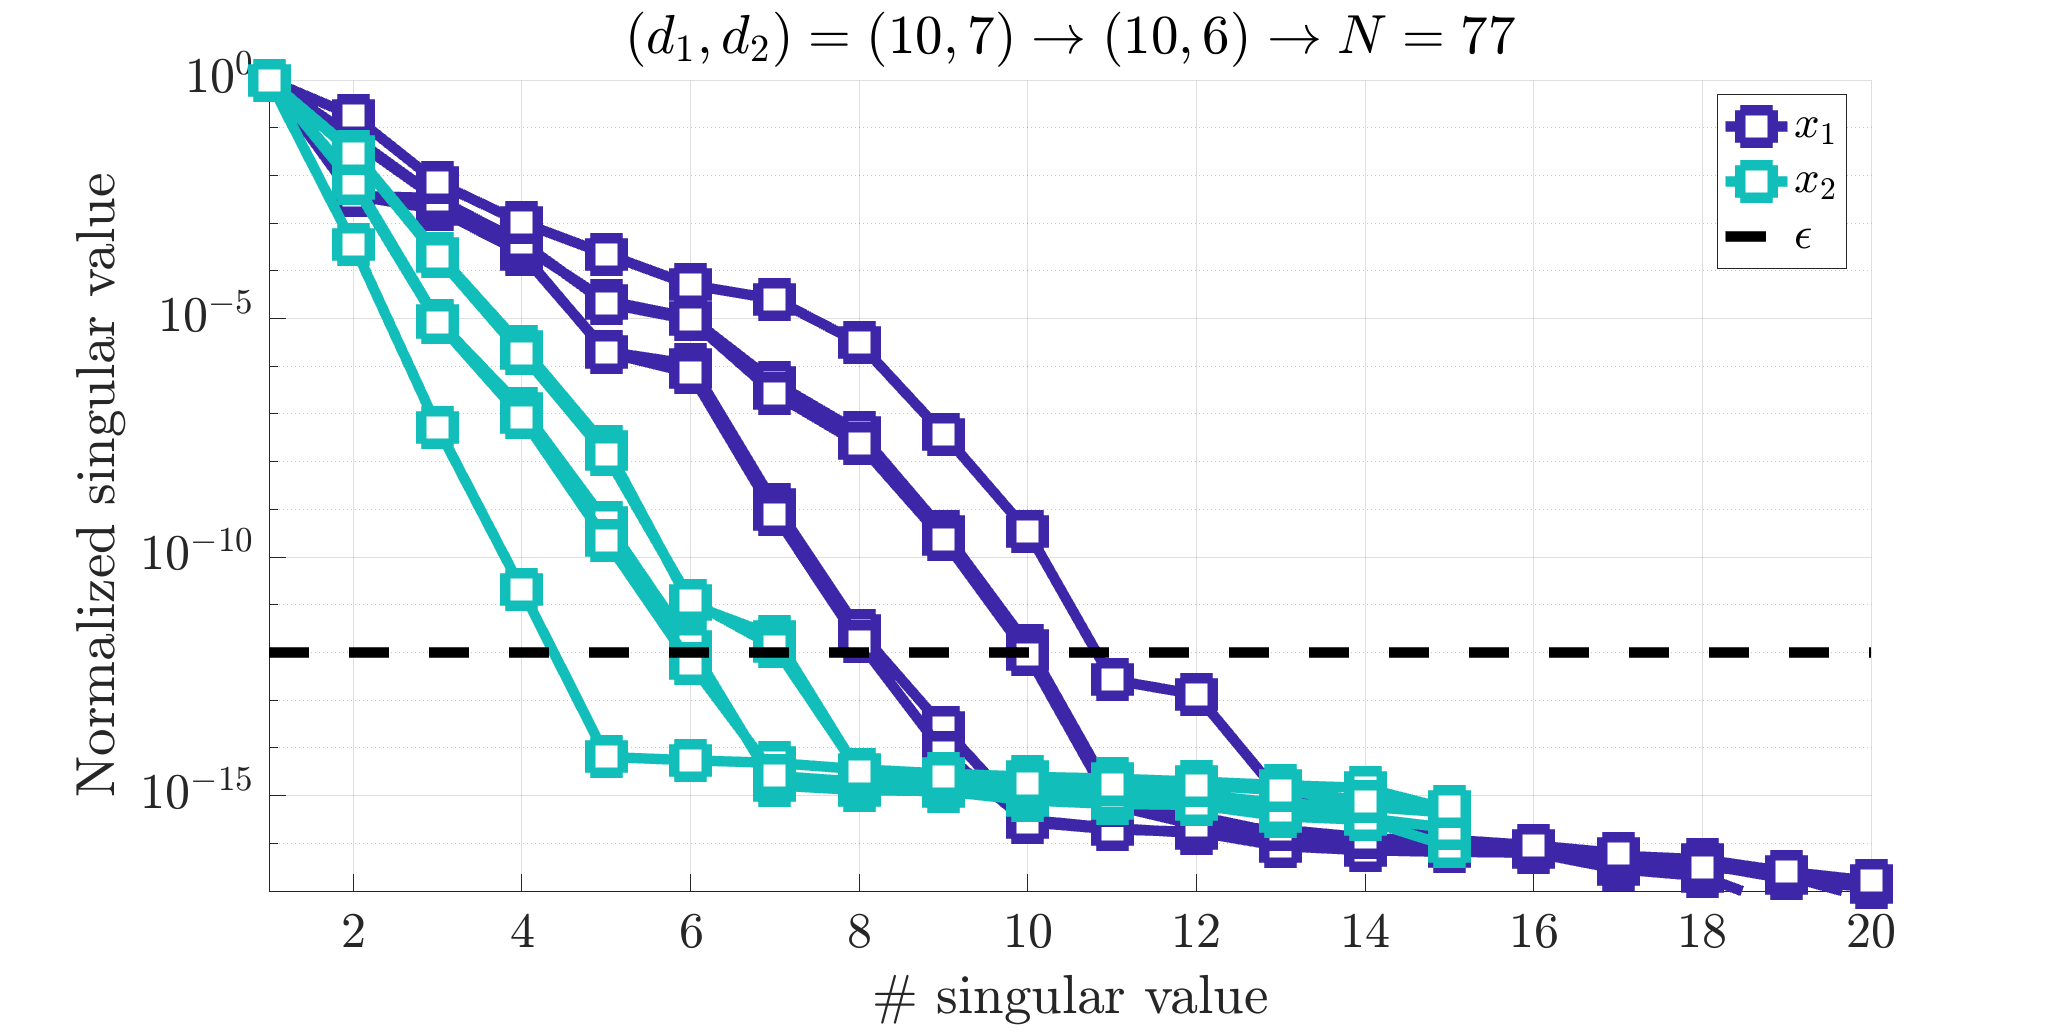
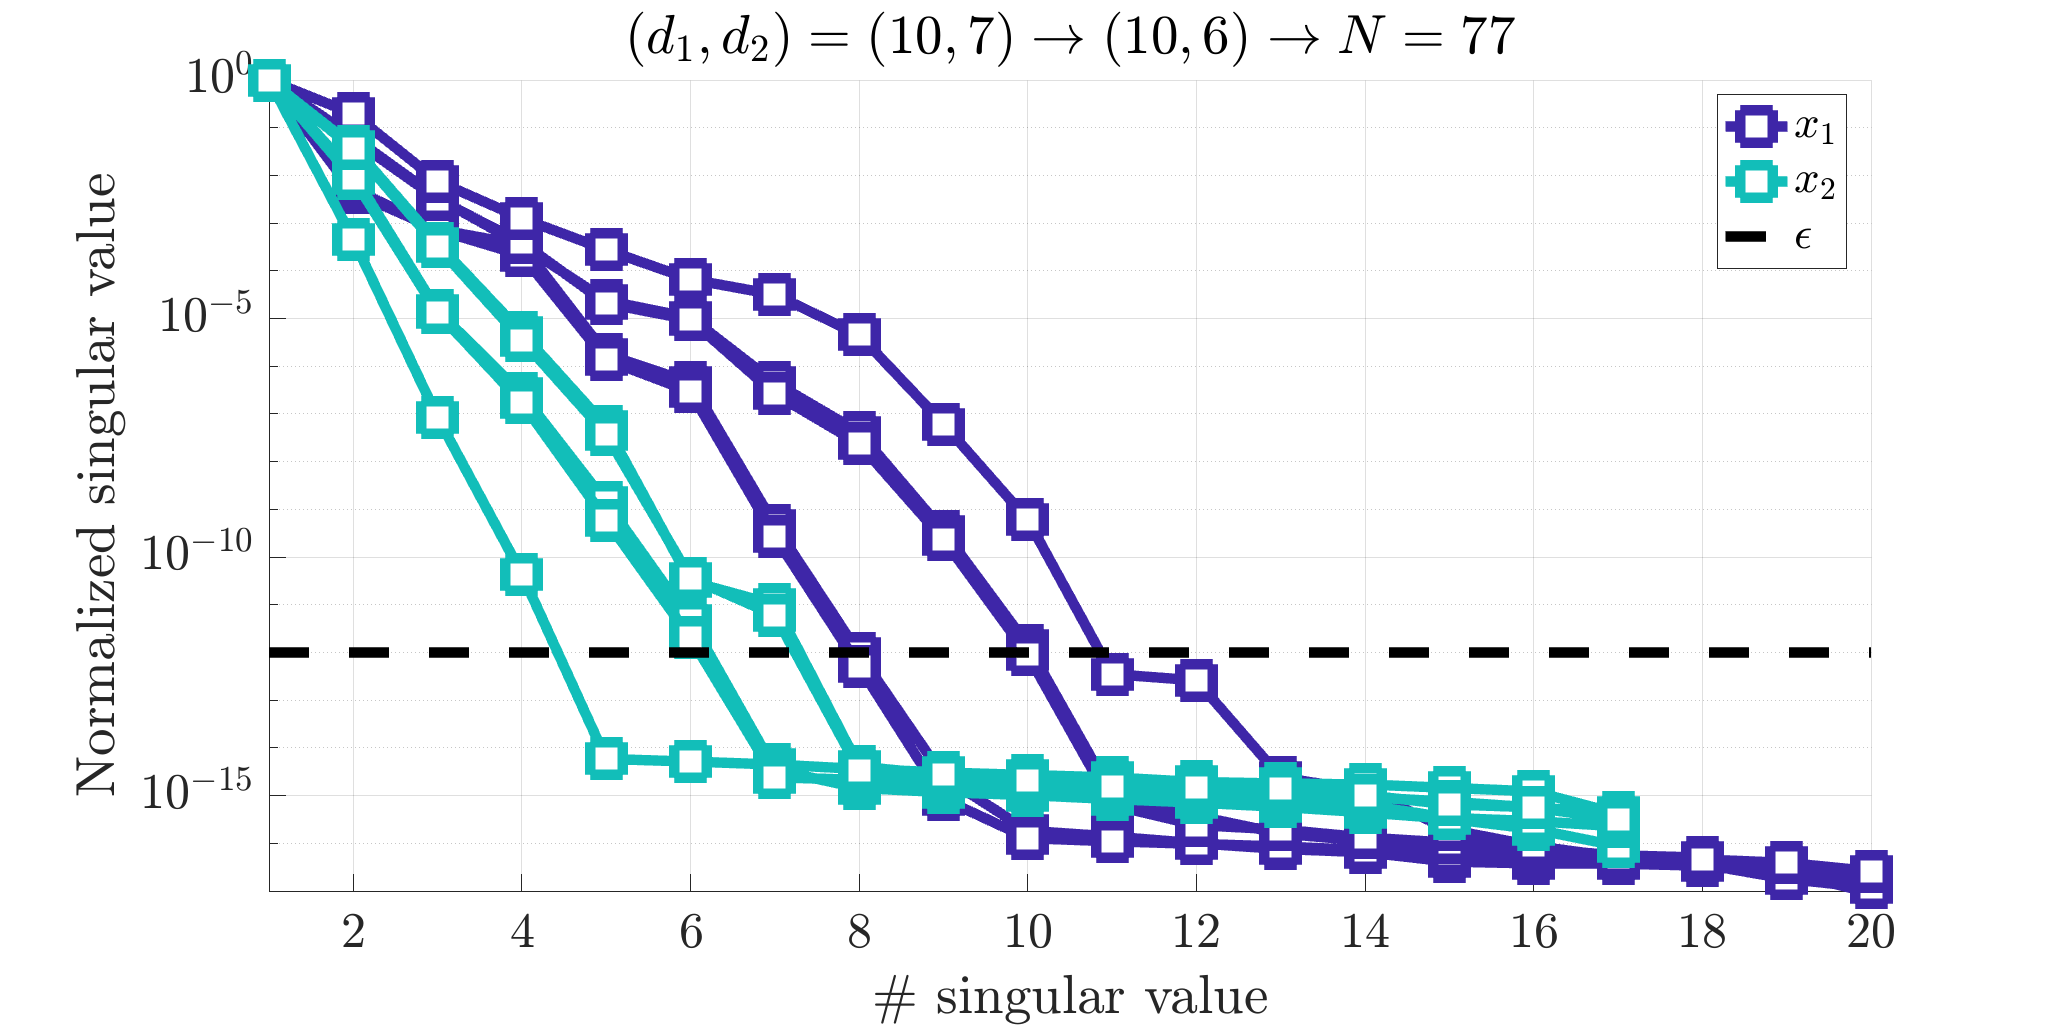
typos

Changed region(s): [[0.1239, 0.0929, 0.9289, 0.8674], [0.4335, 0.3717, 0.5264, 0.6196], [0.5264, 0.6196, 0.6193, 0.7435]]

diff --git a/mlf/examples_nlev01.html b/mlf/examples_nlev01.html
@@ -136,6 +136,12 @@ The frame shows how well the eigenvalues are recovered!
 </div>
 The above frame shows the interpolation points along the first $z$ variable, and the selected $\lambda_1$ and $\mu_1$ (circle). 
 It also shows the eigenvalues obtained by the standard Loewner framework, evaluated at each frozen $p$ value (purple triangle).
+
+Using an other set of interpolation points, namely along the vertical axis, lead to the following figure.
+<div style="text-align: center;">
+	<img src="examples/approx_nlev01/ex_iR_2_min18max_52.gif" width="100%"></a><br>
+</div>
+
 									</div>
 								</section>
 								<ul class="contact">

diff --git a/mlf/examples/approx_nlev01/demo_nlev_self_iR.m b/mlf/examples/approx_nlev01/demo_nlev_self_iR.m
@@ -9,7 +9,7 @@ set(groot,'defaultlegendinterpreter','latex')
 addpath('/Users/charles/Documents/GIT/mLF')
 addpath('/Users/charles/Documents/GIT/LF')
 %
-SAVEIT  = false;
+SAVEIT  = true;
 %%% Examples article
 E   = diag(logspace(-4,10,10));
 Phi = @(x) (x(:,1)+0.01*exp(-x(:,1).*x(:,2)))*eye(10)+E;
@@ -57,7 +57,7 @@ handler = figure; hold on, grid on
 set(gcf, 'Color', 'white')
 pSpace  = ip{2};%linspace(min(ip{2}),max(ip{2}),50);
 pSpace  = linspace(min(ip{2}),max(ip{2}),80);
-pSpace  = [20 30 35 50]
+%pSpace  = [20 30 35 50]
 for ii = 1:numel(pSpace)
     cla
     p   = pSpace(ii);
@@ -78,7 +78,7 @@ for ii = 1:numel(pSpace)
     eigv(isnan(eigv))=[];
     uns = numel(find(eigv(real(eigv)>0)));
     %
-    plot(real(C),imag(C),'k--','DisplayName','Contour $\partial\Omega$')
+    %plot(real(C),imag(C),'k--','DisplayName','Contour $\partial\Omega$')
     plot(real(ip{1}),imag(ip{1}),'.','DisplayName','$z_1(1,\cdots,n_1)$') 
     plot(real(iloe.pc{1}),imag(iloe.pc{1}),'s','DisplayName','$\lambda_1$') 
     plot(real(iloe.pr{1}),imag(iloe.pr{1}),'d','DisplayName','$\mu_1$') 
@@ -91,7 +91,7 @@ for ii = 1:numel(pSpace)
     set(gca,'xlim',.15*[-1 1],'ylim',.15*[-1 1])
     %set(gca,'xlim',[-1 .5],'ylim',.5*[-1 1])
     axis square
-    drawnow, pause
+    drawnow, 
     %if SAVEIT; mlf.figSavePDF(['figures/ex_' num2str(2) '_' num2str(ii)]); end
     if SAVEIT; mlf.saveGIF(handler,ii,['ex_iR_' num2str(2) '_min' num2str(min(pSpace)) 'max_' num2str(max(pSpace)) ]); end
 end

diff --git a/mlf/examples/approx_nlev01/demo_nlev_self.m b/mlf/examples/approx_nlev01/demo_nlev_self.m
@@ -9,7 +9,7 @@ set(groot,'defaultlegendinterpreter','latex')
 addpath('/Users/charles/Documents/GIT/mLF')
 addpath('/Users/charles/Documents/GIT/LF')
 %
-SAVEIT  = false;
+SAVEIT  = true;
 %%% Examples article
 E   = diag(logspace(-4,10,10));
 Phi = @(x) (x(:,1)+0.01*exp(-x(:,1).*x(:,2)))*eye(10)+E;